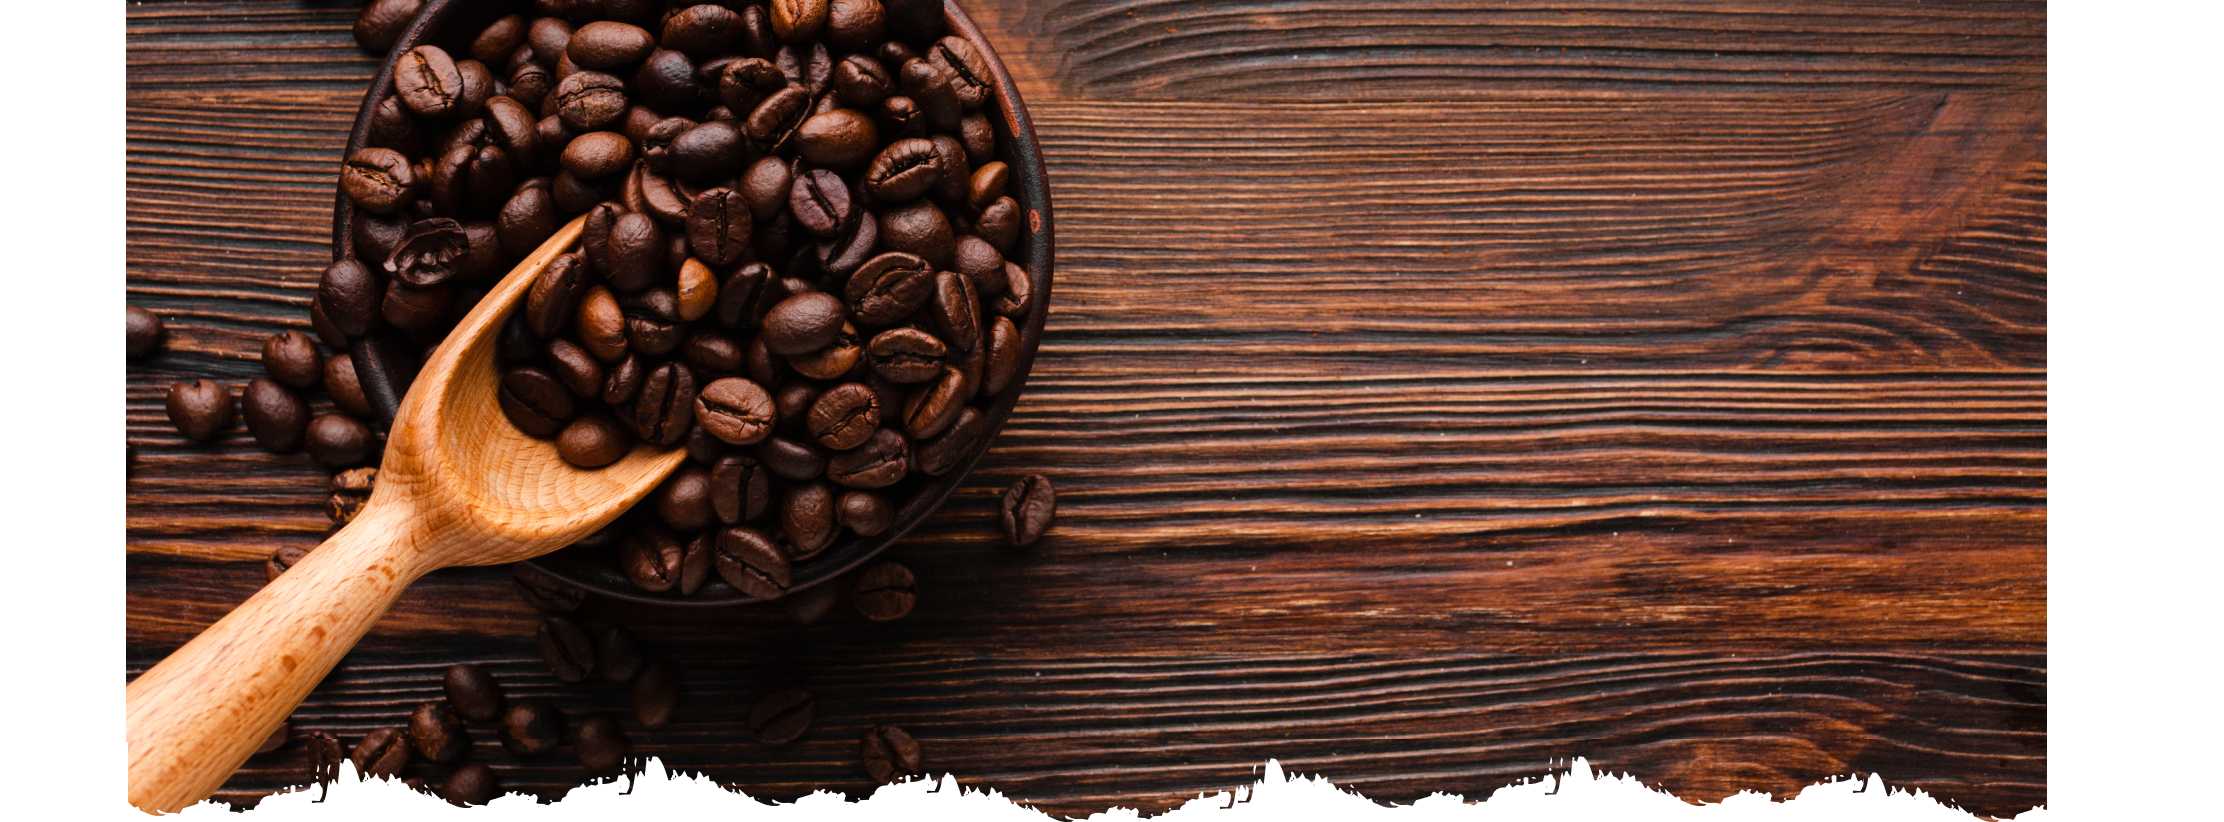
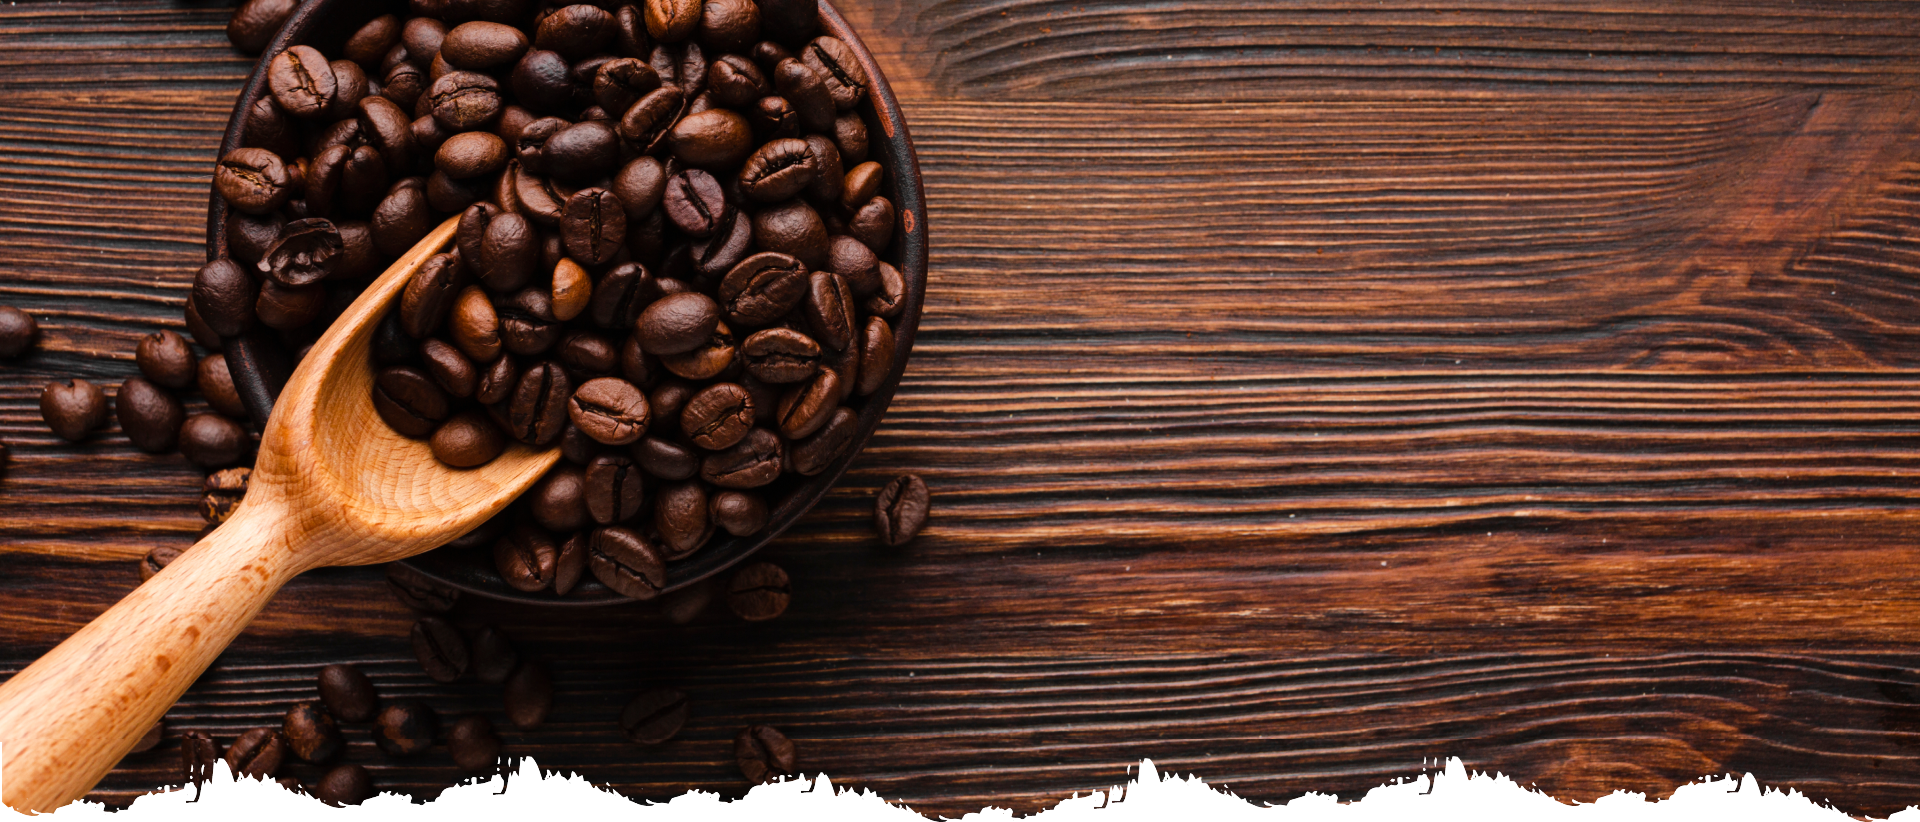
mobile and grid fix

diff --git a/src/Pages/LandingPage.js b/src/Pages/LandingPage.js
@@ -12,7 +12,7 @@ function LandingPage() {
     
         <div className='img_wrapper'>
             <Header />
-            
+            <img className='bg_img' src='imgs/BG.png'/>
             
               <div className='top-page-wrapper'>
                 <text className='indulge-text'>INDULGE IN EVERY SIP</text>
@@ -25,7 +25,7 @@ function LandingPage() {
 
 
             
-
+        
             
           
 
@@ -34,6 +34,8 @@ function LandingPage() {
     
       <section className='section-2'>
         <div className='s2-wrapper'>
+
+          <div className='test'></div>
 
           <div className='s2-img-wrapper'>
             <img className='drip-img' src='imgs/drip-coffee.jpg' alt='drip coffee'/>
@@ -72,10 +74,12 @@ function LandingPage() {
               </div>
               <div className='item-description'>
                 <text className='item-des'>
-                Lorem Ipsum is simply dummy text of the printing and 
+                  <p>
+                  Lorem Ipsum is simply dummy text of the printing and 
                     typesetting industry. Lorem Ipsum has been the industry's standard dummy
                     text ever since the 1500s, when an unknown printer took a galley of 
                     type and scrambled it to make a type specimen book.
+                  </p>
                 </text>
               </div>
             </div>
@@ -86,11 +90,13 @@ function LandingPage() {
                 <text className='item-text'>$40</text>
               </div>
               <div className='item-description'>
-                <text className='item-des'>
-                Lorem Ipsum is simply dummy text of the printing and 
+              <text className='item-des'>
+                  <p>
+                  Lorem Ipsum is simply dummy text of the printing and 
                     typesetting industry. Lorem Ipsum has been the industry's standard dummy
                     text ever since the 1500s, when an unknown printer took a galley of 
                     type and scrambled it to make a type specimen book.
+                  </p>
                 </text>
               </div>
             </div>
@@ -101,11 +107,13 @@ function LandingPage() {
                 <text className='item-text'>$40</text>
               </div>
               <div className='item-description'>
-                <text className='item-des'>
-                Lorem Ipsum is simply dummy text of the printing and 
+              <text className='item-des'>
+                  <p>
+                  Lorem Ipsum is simply dummy text of the printing and 
                     typesetting industry. Lorem Ipsum has been the industry's standard dummy
                     text ever since the 1500s, when an unknown printer took a galley of 
                     type and scrambled it to make a type specimen book.
+                  </p>
                 </text>
               </div>
             </div>
@@ -116,11 +124,13 @@ function LandingPage() {
                 <text className='item-text'>$40</text>
               </div>
               <div className='item-description'>
-                <text className='item-des'>
-                Lorem Ipsum is simply dummy text of the printing and 
+              <text className='item-des'>
+                  <p>
+                  Lorem Ipsum is simply dummy text of the printing and 
                     typesetting industry. Lorem Ipsum has been the industry's standard dummy
                     text ever since the 1500s, when an unknown printer took a galley of 
                     type and scrambled it to make a type specimen book.
+                  </p>
                 </text>
               </div>
             </div>
@@ -131,11 +141,13 @@ function LandingPage() {
                 <text className='item-text'>$40</text>
               </div>
               <div className='item-description'>
-                <text className='item-des'>
-                Lorem Ipsum is simply dummy text of the printing and 
+              <text className='item-des'>
+                  <p>
+                  Lorem Ipsum is simply dummy text of the printing and 
                     typesetting industry. Lorem Ipsum has been the industry's standard dummy
                     text ever since the 1500s, when an unknown printer took a galley of 
                     type and scrambled it to make a type specimen book.
+                  </p>
                 </text>
               </div>
             </div>
@@ -147,11 +159,13 @@ function LandingPage() {
                 <text className='item-text'>$40</text>
               </div>
               <div className='item-description'>
-                <text className='item-des'>
-                Lorem Ipsum is simply dummy text of the printing and 
+              <text className='item-des'>
+                  <p>
+                  Lorem Ipsum is simply dummy text of the printing and 
                     typesetting industry. Lorem Ipsum has been the industry's standard dummy
                     text ever since the 1500s, when an unknown printer took a galley of 
                     type and scrambled it to make a type specimen book.
+                  </p>
                 </text>
               </div>
             </div>
@@ -162,11 +176,13 @@ function LandingPage() {
                 <text className='item-text'>$40</text>
               </div>
               <div className='item-description'>
-                <text className='item-des'>
-                Lorem Ipsum is simply dummy text of the printing and 
+              <text className='item-des'>
+                  <p>
+                  Lorem Ipsum is simply dummy text of the printing and 
                     typesetting industry. Lorem Ipsum has been the industry's standard dummy
                     text ever since the 1500s, when an unknown printer took a galley of 
                     type and scrambled it to make a type specimen book.
+                  </p>
                 </text>
               </div>
             </div>
@@ -177,11 +193,13 @@ function LandingPage() {
                 <text className='item-text'>$40</text>
               </div>
               <div className='item-description'>
-                <text className='item-des'>
-                Lorem Ipsum is simply dummy text of the printing and 
+              <text className='item-des'>
+                  <p>
+                  Lorem Ipsum is simply dummy text of the printing and 
                     typesetting industry. Lorem Ipsum has been the industry's standard dummy
                     text ever since the 1500s, when an unknown printer took a galley of 
                     type and scrambled it to make a type specimen book.
+                  </p>
                 </text>
               </div>
             </div>
@@ -192,11 +210,13 @@ function LandingPage() {
                 <text className='item-text'>$40</text>
               </div>
               <div className='item-description'>
-                <text className='item-des'>
-                Lorem Ipsum is simply dummy text of the printing and 
+              <text className='item-des'>
+                  <p>
+                  Lorem Ipsum is simply dummy text of the printing and 
                     typesetting industry. Lorem Ipsum has been the industry's standard dummy
                     text ever since the 1500s, when an unknown printer took a galley of 
                     type and scrambled it to make a type specimen book.
+                  </p>
                 </text>
               </div>
             </div>

diff --git a/src/Pages/Mobile.css b/src/Pages/Mobile.css
@@ -1,9 +1,9 @@
 @media screen and (max-width: 478px) {
 
 
-
+/*
     .img_wrapper {
-        background: url('/public/imgs/BG.png') center center/cover no-repeat;
+       
         display: grid;
         grid-template-columns: 50px 50px 50px 50px 50px 50px 50px
         50px 50px 50px;
@@ -12,7 +12,7 @@
         justify-content: center;
         height: 500px;
     }
-
+*/
     .top-page-wrapper {
         grid-column: 2 / 6;
         grid-row: 5 / 7;
@@ -37,12 +37,12 @@
 
 
     .cup-img {
-        width: 200px;
-        height: 250px;
+        width: 100px;
+        height: 125px;
     }
 
     .cup-wrapper {
-        grid-column: 7 / 11;
+        grid-column: 7 / 9;
         grid-row: 3 / 8;
     
     }
@@ -106,7 +106,7 @@
         grid-template-columns: 50px 50px 50px 50px 50px 50px 50px
         50px 50px 50px;
         grid-template-rows: 50px 50px 50px 50px 50px 50px 50px
-        50px 50px 50px ;
+        50px  ;
         justify-content: space-evenly;
     }
 
@@ -131,6 +131,12 @@
         font-family: 'Yanone Kaffeesatz', sans-serif;
         font-size: 8px;
         color: #50291B;
+    }
+
+
+    .item-des > p {
+        max-height: 35px;
+        overflow: hidden;
     }
 
     .item-description {

diff --git a/src/Pages/LandingPage.css b/src/Pages/LandingPage.css
@@ -1,24 +1,21 @@
 .bg_img {
     display: flex;
     width: 100%;
+    grid-column: 1 / 10;
+    grid-row: 1 / 10;
 }
 
-.img_wrapper {
-    background: url('/public/imgs/BG.png') center center/cover no-repeat;
+.img_wrapper { 
     display: grid;
-    grid-template-columns: 150px 150px 150px 150px 150px 150px 150px
-    150px 150px 150px;
-    grid-template-rows: 150px 150px 150px 150px 150px 150px 150px
-    150px 150px 150px ;
-    justify-content: center;
-    height: 1050px;
+    width: auto;
 }
 
 .top-page-wrapper {
     display: flex;
     justify-content: center;
     flex-direction: column;
-    
+    grid-column: 3 / 4;
+    grid-row: 5 / 6;
 }
 
 .indulge-text {
@@ -41,10 +38,6 @@
     height: 561px;
 }
 
-.top-page-wrapper {
-    grid-column: 1 / 3;
-    grid-row: 5 / 6;
-}
 
 
 
